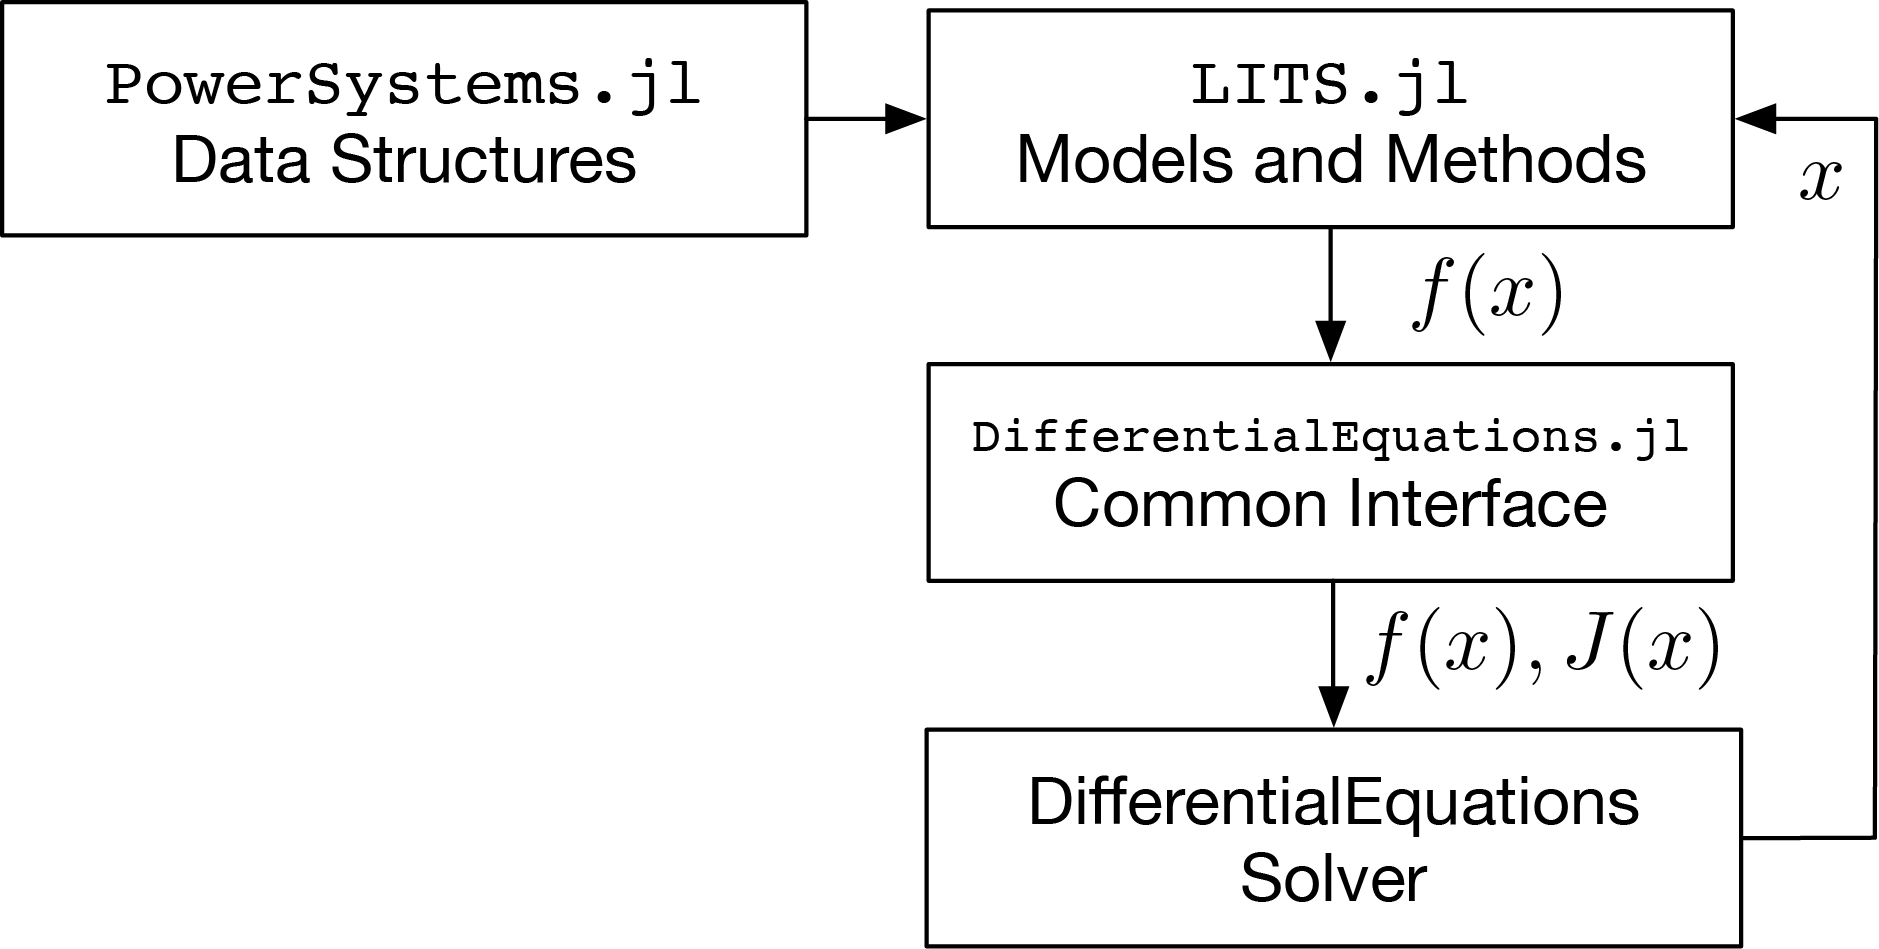
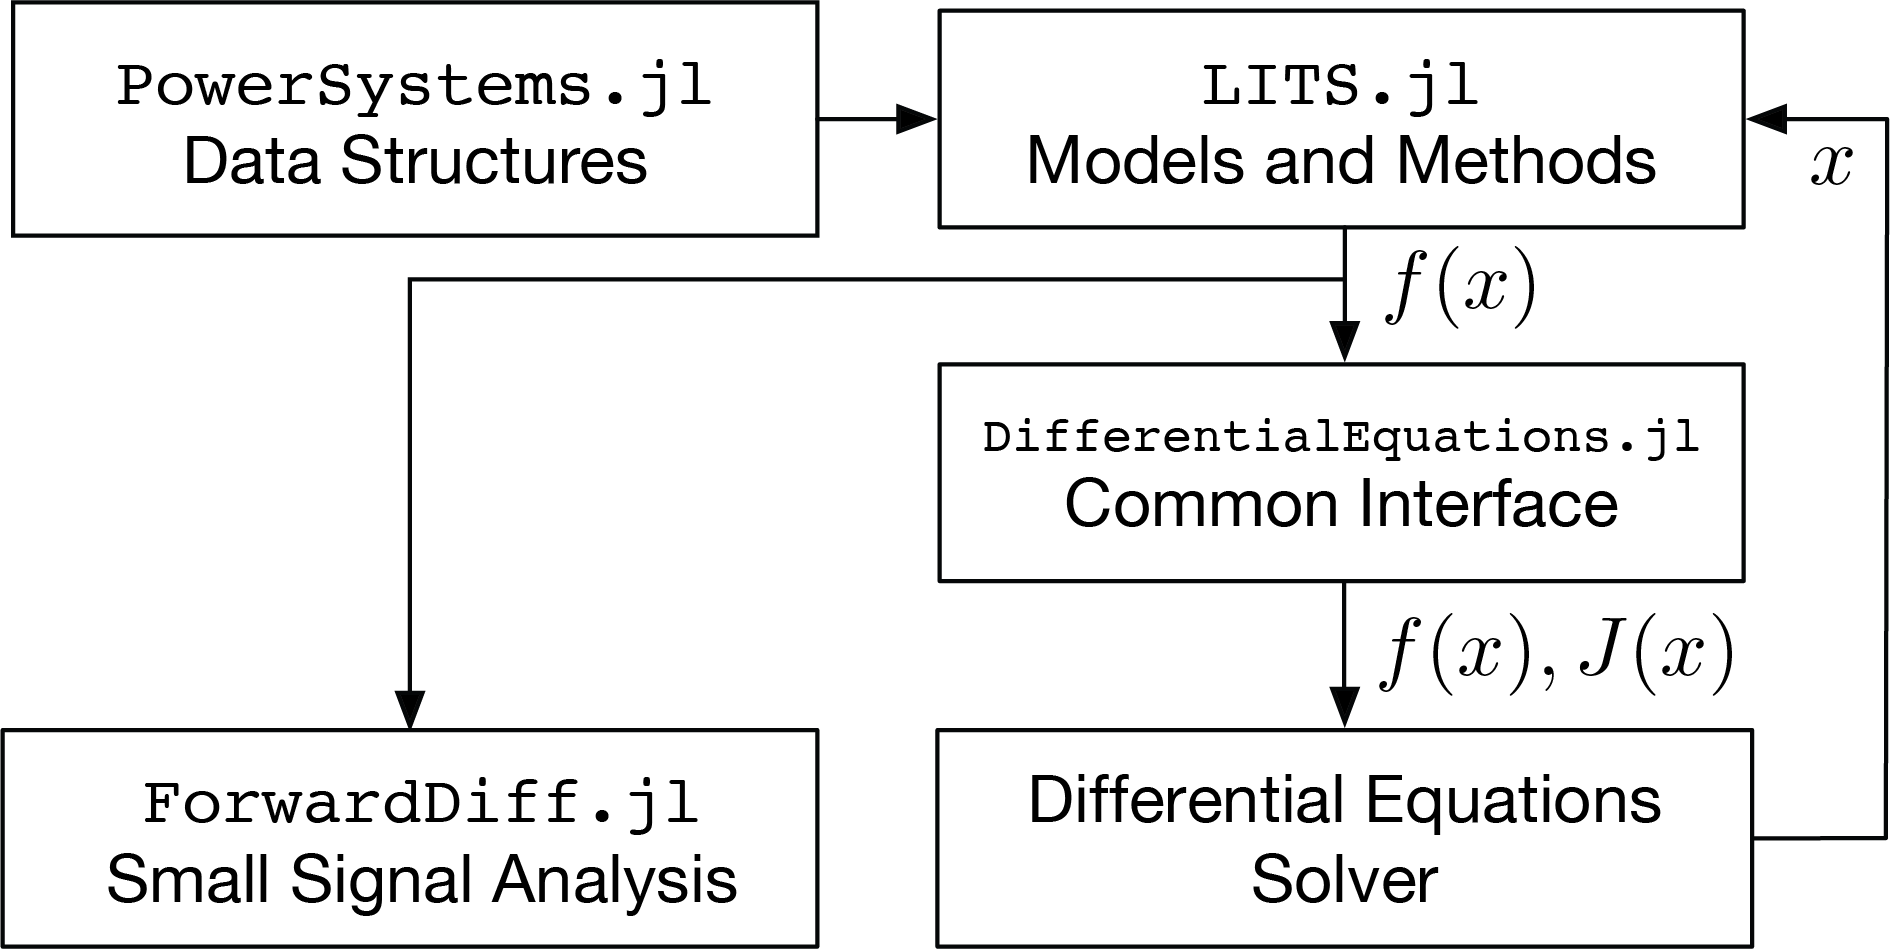
Update docs

diff --git a/docs/src/Models/gens.md b/docs/src/Models/gens.md
@@ -22,13 +22,13 @@ Each generator is defined in its own ``dq`` reference frame. Let ``\delta`` be t
 \end{align}
 ```
 
-Models are based from Federico Milano's book: "Power System Modelling and Scripting" and Prabha Kundur's book: "Power System's Stability and Control"
+Models are based from Federico Milano's book: "Power System Modelling and Scripting" and Prabha Kundur's book: "Power System's Stability and Control" and structures are defined in ```PowerSystems.jl``` abbreviated as ```PSY```.
 
 ## Machines
 
 The machine component describes the stator-rotor electromagnetic dynamics.
 
-### Classical Model (Zero Order)
+### Classical Model (Zero Order) ```[PSY.BaseMachine]```
 This is the classical order model that does not have differential equations in its machine model (``\delta`` and ``\omega`` are defined in the shaft):
 
 ```math
@@ -38,7 +38,7 @@ p_e \approx \tau_e &= (v_q + r_a i_q)i_q + (v_d + r_ai_d)i_d \tag{1b}
 \end{align}
 ```
 
-### One d- One q- Model (2th Order)
+### One d- One q- Model (2th Order) ```[PSY.OneDOneQMachine]```
 This model includes two transient emf with their respective differential equations:
 
 ```math
@@ -50,7 +50,7 @@ p_e \approx \tau_e &= (v_q + r_a i_q)i_q + (v_d + r_ai_d)i_d \tag{2d}
 \end{align}
 ```
 
-### Marconato Machine (6th Order)
+### Marconato Machine (6th Order) ```[PSY.MarconatoMachine]```
 
 The Marconato model defines 6 differential equations, two for stator fluxes and 4 for transient and subtransient emfs:
 
@@ -77,7 +77,7 @@ with
 \end{align*}
 ```
 
-### Simplified Marconato Machine (4th Order)
+### Simplified Marconato Machine (4th Order) ```[PSY.SimpleMarconatoMachine]```
 
 This model neglects the derivative of stator fluxes (``\dot{\psi}_d`` and  ``\dot{\psi}_q``) and assume that the rotor speed stays close to 1 pu (``\omega\psi_{d}=\psi_{d}`` and ``\omega\psi_{q}=\psi_{q}``) that allows to remove the stator fluxes variables from the Marconato model.
 
@@ -102,7 +102,7 @@ with
 ```
 
 
-### Anderson-Fouad Machine (6th Order)
+### Anderson-Fouad Machine (6th Order) ```[PSY.AndersonFouadMachine]```
 
 The Anderson-Fouad model also defines 6 differential equations, two for stator fluxes and 4 for transient and subtransient emfs and is derived from the Marconato model by defining ``\gamma_d \approx \gamma_q \approx T_{AA} \approx 0``:
 
@@ -120,7 +120,7 @@ i_q &= \frac{1}{x_q''} (-e_d'' - \psi_q) \tag{5h} \\
 \end{align}
 ```
 
-### Simplified Anderson-Fouad Machine (4th Order)
+### Simplified Anderson-Fouad Machine (4th Order) ``[PSY.SimpleAFMachine]``
 
 Similar to the Simplified Marconato Model, this model neglects the derivative of stator fluxes (``\dot{\psi}_d`` and  ``\dot{\psi}_q``) and assume that the rotor speed stays close to 1 pu (``\omega \psi_d = \psi_d`` and ``\omega \psi_q = \psi_q``) that allows to remove the stator fluxes variables from the model:
 
@@ -135,7 +135,7 @@ p_e \approx \tau_e &= (v_q + r_a i_q)i_q + (v_d + r_ai_d)i_d \tag{6f}
 \end{align}
 ```
 
-### Rotor Fluxes Model (5th Order)
+### Rotor Fluxes Model (5th Order) ```[PSY.FullMachine]```
 
 This models describes a machine model using 2 stator fluxes ``\psi_d`` and ``\psi_q``, the rotor field flux ``\psi_f``, the d-axis damping ``\psi_{1d}`` and only one q-axis damping circuit ``\psi_{1q}``:
 
@@ -157,7 +157,7 @@ This models describes a machine model using 2 stator fluxes ``\psi_d`` and ``\ps
 
 The shaft component defines the rotating mass of the synchronous generator.
 
-### Rotor Mass Shaft
+### Rotor Mass Shaft ```[PSY.SingleMass]```
 
 This is the standard model, on which one single mass (typically the rotor) is used to model the entire inertia of the synchronous generator. Each generator's rotating frame use a reference frequency ``\omega_s``, that typically is the synchronous one (i.e. ``\omega_s = 1.0``). The model defines two differential equations for the rotor angle ``\delta`` and the rotor speed ``\omega``:
 
@@ -169,7 +169,7 @@ This is the standard model, on which one single mass (typically the rotor) is us
 ```
 
 
-### Five-Mass Shaft
+### Five-Mass Shaft ```[PSY.FiveMassShaft]```
 
 This model describes model connecting a high-pressure (hp) steam turbine, intermediate-pressure (ip) steam turbine, low-pressure (lp) steam pressure, rotor and exciter (ex) connected in series (in that order) in the same shaft using a spring-mass model:
 
@@ -192,11 +192,11 @@ This model describes model connecting a high-pressure (hp) steam turbine, interm
 
 AVR are used to determine the voltage in the field winding ``v_f`` in the model.
 
-### Fixed AVR
+### Fixed AVR ```[PSY.AVRFixed]```
 
 This is a simple model that set the field voltage to be equal to a desired constant value ``v_f = v_{\text{fix}}``.
 
-### Simple AVR
+### Simple AVR ```[PSY.AVRSimple]```
 
 This depicts the most basic AVR, on which the field voltage is an integrator over the difference of the measured voltage and a reference:
 
@@ -206,7 +206,7 @@ This depicts the most basic AVR, on which the field voltage is an integrator ove
 \end{align}
 ```
 
-### AVR Type I
+### AVR Type I ```[PSY.AVRTypeI]```
 
 This AVR is a simplified version of the IEEE DC1 AVR model:
 
@@ -227,7 +227,7 @@ S_e(v_f) = A_e \exp(B_e|v_f|)
 \end{align*}
 ```
 
-### AVR Type II
+### AVR Type II ```[PSY.AVRTypeII]```
 
 This model represents a static exciter with higher gains and faster response than the Type I:
 
@@ -254,11 +254,11 @@ S_e(v_f) &= A_e \exp(B_e|v_f|)
 
 PSS are used to add an additional signal ``v_s`` to the field voltage: ``v_f = v_f^{\text{avr}} + v_s``.
 
-### Fixed PSS
+### Fixed PSS ```[PSY.PSSFixed]```
 
 This is a simple model that set the stabilization signal to be equal to a desired constant value ``v_s = v_{s}^{\text{fix}}``. The absence of PSS can be modelled using this component with ``v_s^{\text{fix}} = 0``.
 
-### Simple PSS
+### Simple PSS ```[PSY.PSSSimple]```
 
 This is the most basic PSS that can be implemented, on which the stabilization signal is simply a proportional controller over the frequency and electrical power:
 
@@ -272,11 +272,11 @@ v_s = K_{\omega}(\omega - \omega_s) + K_p(\omega \tau_e - P_{\text{ref}}) \tag{1
 
 This section describes how mechanical power is modified to provide primary frequency control with synchronous generators. It is assumed that ``\tau_{\text{ref}} = P_{\text{ref}}`` since they are decided at nominal frequency ``\omega = 1``.
 
-### Fixed TG
+### Fixed TG ```[PSY.TGFixed]```
 
 This a simple model that set the mechanical torque to be equal to a proportion of the desired reference ``\tau_m = \eta P_{\text{ref}}``. To set the mechanical torque to be equal to the desired power, the value of ``\eta`` is set to 1.
 
-### TG Type I
+### TG Type I ```[PSY.TGTypeI]```
 
 This turbine governor is described by a droop controller and a low-pass filter to model the governor and two lead-lag blocks to model the servo and reheat of the turbine governor.
 
@@ -297,7 +297,7 @@ p_{\text{in}} = P_{\text{ref}} + \frac{1}{R}(\omega_s - 1)
 \end{align*}
 ```
 
-### TG Type II
+### TG Type II ```[PSY.TGTypeII]```
 
 This turbine governor is a simplified model of the Type I.
 
@@ -311,23 +311,4 @@ This turbine governor is a simplified model of the Type I.
 
 ## Reference
 
-```@docs
-LITS.BaseMachine
-LITS.OneDOneQMachine
-LITS.MarconatoMachine
-LITS.SimpleMarconatoMachine
-LITS.AndersonFouadMachine
-LITS.SimpleAFMachine
-LITS.FullMachine
-LITS.SingleMass
-LITS.FiveMassShaft
-LITS.AVRFixed
-LITS.AVRSimple
-LITS.AVRTypeI
-LITS.AVRTypeII
-LITS.PSSFixed
-LITS.PSSSimple
-LITS.TGFixed
-LITS.TGTypeI
-LITS.TGTypeII
-```
+For constructors check the API on [PowerSystems.jl documentation](https://nrel.github.io/PowerSystems.jl/latest/api/PowerSystems/)

diff --git a/docs/src/Models/inverters.md b/docs/src/Models/inverters.md
@@ -17,13 +17,13 @@ The following figure summarizes the components of a inverter and which variables
 
 Contrary to the generator, there are many control structures that can be used to model inverter controllers (e.g. grid-following, grid feeding or virtual synchronous machine). For this purpose, more variables are shared among the components in order to cover all these posibilities.
 
-Models are based from the paper: "A Virtual Synchronous Machine implementation for distributed control of power converters in SmartGrids" from S. D'Arco, J.A. Suul and O.B. Fosso.
+Models are based from the paper: "A Virtual Synchronous Machine implementation for distributed control of power converters in SmartGrids" from S. D'Arco, J.A. Suul and O.B. Fosso, and structures are defined in ```PowerSystems.jl``` abbreviated as ```PSY```.
 
 ## DC Source
 
 This component can be used to model the dynamics of the DC side of the converter.
 
-### Fixed DC Source
+### Fixed DC Source ```[PSY.FixedDCSource]```
 
 This is a model that set the DC voltage to a fixed value ``v_{\text{dc}} = v_{\text{dc}}^{\text{fix}}``.
 
@@ -32,7 +32,7 @@ This is a model that set the DC voltage to a fixed value ``v_{\text{dc}} = v_{\t
 
 This component is used to estimate the frequency of the grid based on the voltage at the bus.
 
-### Phase-Locked Loop (PLL) for VSM
+### Phase-Locked Loop (PLL) for VSM ```[PSY.PLL]```
 
 The following equations present a PLL used to estimate the frequency and PLL angle of the grid. There are two reference frames considered in this inverter. Those are the VSM of the outer-loop control ``\delta\theta_{\text{olc}}`` and the PLL one ``\delta\theta_{\text{pll}}``. The notation used a ``\delta\theta`` to refer as the variation of the respective angle ``\theta`` with respect to the grid SRF (instead of the fixed ``\alpha`` component of the ``\alpha\beta`` transformation):
 
@@ -57,13 +57,13 @@ with
 
 This component defines controllers for both active and reactive power
 
-### Virtual Inertia and Q-droop
+### Virtual Inertia and Q-droop ```[PSY.OuterControl]```
 
-The following model represent a virtual synchronous machine model to represent how active power is going to be deployed. It defines a new SRF denoted as ``\theta_{\text{olc}}`` for the active power controller and uses a simple voltage droop for dispatching reactive power:
+The following model represent a virtual synchronous machine model to represent how active power is going to be deployed. The constructor is ```PSY.OuterControl{PSY.VirtualInertia, PSY.ReactivePowerDroop}```. It defines a new SRF denoted as ``\theta_{\text{olc}}`` for the active power controller and uses a simple voltage droop for dispatching reactive power:
 
 ```math
 \begin{align}
-    \dot{\delta\omega}_{\text{olc}} &= \frac{p_{\text{ref}}}{T_a} - \frac{p_e}{T_a} - \frac{k_d(\omega_{\text{vsm}} - \omega_{\text{pll}})}{T_a} - \frac{k_\omega(\omega_{\text{olc}} - \omega_{\text{ref}})}{T_a} \tag{2a} \\
+    \dot{\delta\omega}_{\text{olc}} &= \frac{p_{\text{ref}}}{T_a} - \frac{p_e}{T_a} - \frac{k_d(\omega_{\text{olc}} - \omega_{\text{pll}})}{T_a} - \frac{k_\omega(\omega_{\text{olc}} - \omega_{\text{ref}})}{T_a} \tag{2a} \\
     \dot{\delta\theta}_{\text{olc}} &= \Omega_b \delta\omega_{\text{olc}} \tag{2b} \\
     \dot{q}_m &= \omega_f (q_e - q_m) \tag{2c}
 \end{align}
@@ -83,7 +83,7 @@ with
 
 This component defines voltage and current controllers to generate the reference signal for the converter.
 
-### Integrated Virtual Impedance, Voltage and Current Controller
+### Integrated Virtual Impedance, Voltage and Current Controller ```[PSY.CombinedVIwithVZ]```
 
 The following model receives both the outer loop control frequency and reference voltage signal to generate the reference signal for the converters. The virtual impedance plays a similar role of the impedance of a synchronous generator. A PI voltage controller is used to generate the current signal that is used in the PI current controller to finally generate the voltage reference signal for the converters.
 
@@ -115,7 +115,7 @@ with
 
 This component can be used to model the dynamics of the switching process.
 
-### Average Model
+### Average Model ```[PSY.AvgCnvFixedDC]```
 
 The average model simply output the desired reference signal since:
 
@@ -130,7 +130,7 @@ where ``m_{dq}`` is the modulation signal, and ``v_{dq}^{\text{ref-signal}}`` is
 
 ## Filters
 
-### LCL Filter
+### LCL Filter ```[PSY.LCLFilter]```
 
 A standard LCL filter is proposed to connect the output of the converter to the grid. In this case, ``v_d`` and ``v_q`` are voltages in the capacitor, while ``v_d^{\text{grid}}`` and ``v_q^{\text{grid}}`` represent the voltage at the bus. The L filter after the capacitor can also include a step-up transformer to increase the voltage, that is model as an extra impedance.
 
@@ -148,13 +148,4 @@ A standard LCL filter is proposed to connect the output of the converter to the 
 
 ## Reference
 
-```@docs
-LITS.FixedDCSource
-LITS.PLL
-LITS.VirtualInertia
-LITS.ReactivePowerDroop
-LITS.VirtualInertiaQdroop
-LITS.CombinedVIwithVZ
-LITS.AvgCnvFixedDC
-LITS.LCLFilter
-```
+For constructors check the API on [PowerSystems.jl documentation](https://nrel.github.io/PowerSystems.jl/latest/api/PowerSystems/)

diff --git a/docs/src/Models/small.md b/docs/src/Models/small.md
@@ -1,0 +1,62 @@
+# Small Signal Analysis
+
+Here we discuss the method used to do a small signal analysis on the DAE system defined in *LITS.jl*. The package defines algebraic variables for both real and imaginary voltages on all buses (except if they have a dynamic line connected, on which the voltage of those buses are treated as differential variables). In addition, each dynamic device can add differential variables (or states) that are concatenated to construct the system of differential algebraic equations.
+
+We define ``y`` as the vector of algebraic variables, ``x`` as the vector of differential variables (states) and ``p`` the parameters of the system, we can define ``g(y,x,p)`` as the vector of algebraic equations and ``f(y,x,p)`` as the vector of differential equations. With that, the non-linear differential algebraic system of equations can be written as:
+
+```math
+\begin{align}
+\left[\begin{array}{c}
+ 0 \\
+  \dot{x}
+  \end{array}\right] = \left[\begin{array}{c}
+  g(y,x,p) \\
+   f(y,x,p) \end{array}\right]
+\end{align}
+```
+
+For small signal analysis, we are interested in the stability around an equilbrium point ``y_{eq},x_{eq}`` that satisfies ``\dot{x} = 0`` or equivalently ``f(y_{eq},x_{eq},p) = 0``, while obviously satisfying ``g(y_{eq}, x_{eq}, p) = 0``. To do that we use a first order approximation:
+
+```math
+\begin{align}
+\left[\begin{array}{c}
+ 0 \\
+  \Delta\dot{x}
+  \end{array}\right] = \underbrace{\left[\begin{array}
+  ~g(y_{eq},x_{eq},p) \\
+   f(y_{eq},x_{eq},p) \end{array}\right]}_{ =~ 0}
+ + J[y_{eq}, x_{eq}, p] \left[\begin{array}{c}
+ \Delta y \\
+  \Delta x
+  \end{array}\right]
+  \end{align}
+```
+
+The first to note is that the jacobian matrix can be splitted in 4 blocks depending on the specific variables we are taking the partial derivatives:
+```math
+\begin{align}
+J[y_{eq}, x_{eq}, p] =
+\left[\begin{array}{cc}
+ g_y & g_x \\
+ f_y & f_x \\
+  \end{array}\right]
+\end{align}
+```
+For small signal analyses, we are interested in the stability of the differential states, while still considering that those need to evolve in the manifold defined by the linearized algebraic equations. Assuming that ``g_y`` is not singular (see chapter 7 of Federico Milano's book: "Power System Modelling and Scripting" or [the following paper](https://ieeexplore.ieee.org/stamp/stamp.jsp?arnumber=1323205)) we can eliminate the algebraic variables to obtain the reduced jacobian:
+
+```math
+\begin{align}
+J_{\text{red}} = f_x - f_y g_y^{-1} g_x
+\end{align}
+```
+that defines our reduced system for the differential variables
+```math
+\begin{align}
+\Delta \dot{x} = J_{\text{red}} \Delta x
+\end{align}
+```
+on which we can compute its eigenvalues to analyze local stability.
+
+## Automatic Differentiation
+
+Once an equilibrium point is found, the complete jacobian of the non-linear system can be obtained using [automatic differentiation](https://en.wikipedia.org/wiki/Automatic_differentiation) in [Julia](https://www.juliadiff.org). In particular, the package `ForwardDiff.jl` is used to obtain the jacobian of the non-linear algebraic system of equations. *LITS.jl* handles the resulting jacobian and reports the reduced jacobian and the corresponding eigenvalues and eigenvectors.

diff --git a/docs/src/index.md b/docs/src/index.md
@@ -22,10 +22,10 @@ using LITS
 ## Structure
 
 The following figure shows the interactions between `LITS.jl`, `PowerSystems.jl`, `DifferentialEquations.jl` and the integrators.
-The architecture of `LITS.jl`  is such that the power system models are all self-contained and return the model function evaluations. The Jacobian is calculated through `DifferentialEquations.jl`'s common-interface enabling the use of any solver available in Julia. Considering that the resulting models are differential-algebraic equations (DAE), the implementation focuses on the use of implicit solvers, in particular SUNDIALS since it has exceptional features applicable to large models — for instance, interfacing with distributed linear-solvers and GPU arrays.
+The architecture of `LITS.jl`  is such that the power system models are all self-contained and return the model function evaluations. The Jacobian is calculated through `DifferentialEquations.jl`'s common-interface enabling the use of any solver available in Julia. Considering that the resulting models are differential-algebraic equations (DAE), the implementation focuses on the use of implicit solvers, in particular SUNDIALS since it has exceptional features applicable to large models — for instance, interfacing with distributed linear-solvers and GPU arrays. In addition, automatic differentiation is implemented using `ForwardDiff.jl` to obtain jacobians to perform small signal analysis.
 
 ```@raw html
-<img src="./assets/SoftwareLoop.png" width="50%"/>
+<img src="./assets/SoftwareLoop.png" width="60%"/>
 ```  
 
 ## Contents
@@ -37,5 +37,6 @@ Pages = [
   "Models/network.md",
   "Models/gens.md",
   "Models/inverters.md",
+  "Models/small.md",
 ]
 ```
